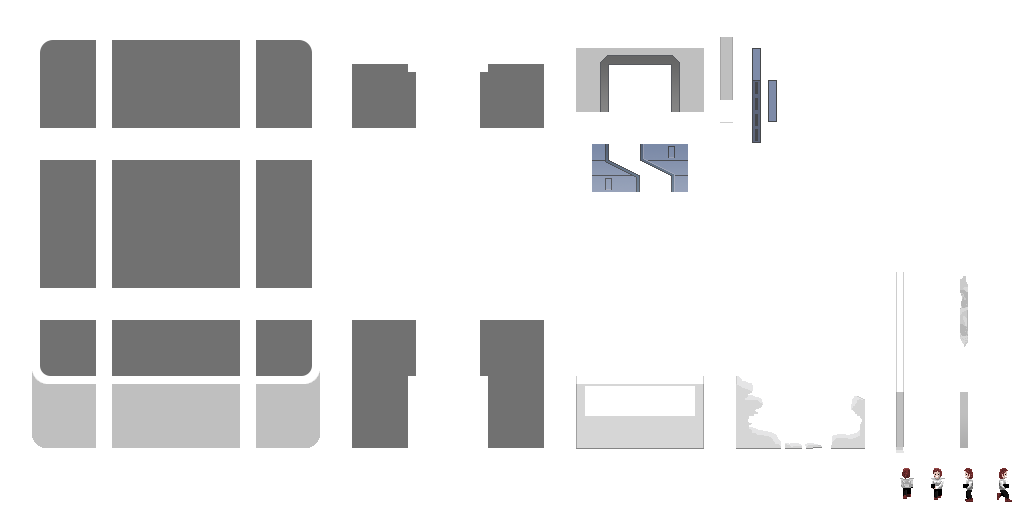
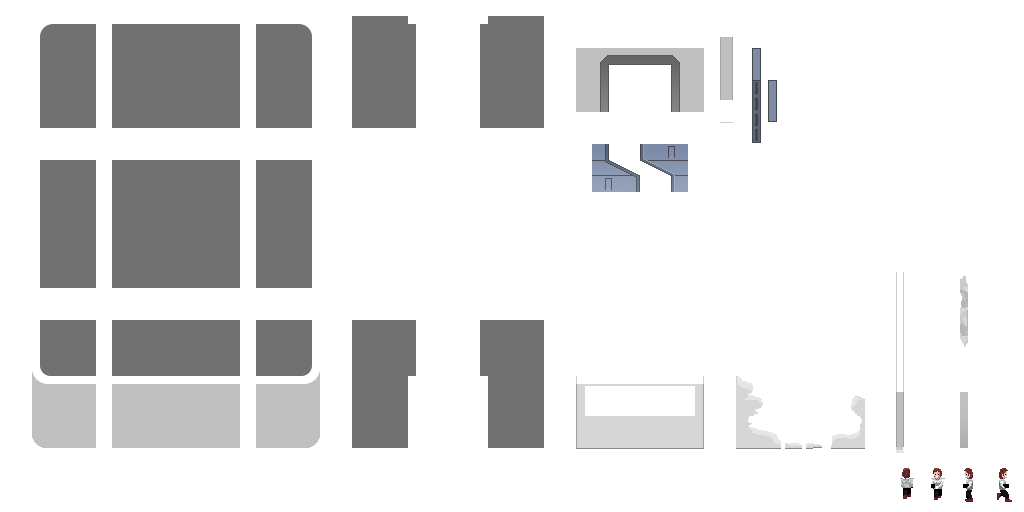
more wall cleanups (sheesh!)

Changed region(s): [[0.0312, 0.0312, 0.3125, 0.0938], [0.4688, 0.0312, 0.5312, 0.1562], [0.3438, 0.0312, 0.4062, 0.1562]]

diff --git a/Assets/Arena/Wall.cs b/Assets/Arena/Wall.cs
@@ -35,8 +35,6 @@ public class Wall: MonoBehaviour
     [ContextMenu("Update Edges")]
     public void UpdateEdges()
     {
-        //FindSpriteRenderers();
-
         var walls = GameObject.FindObjectsOfType<Wall>();
 
         var x = Mathf.RoundToInt(transform.position.x);

diff --git a/Assets/Arena/DoorV.cs b/Assets/Arena/DoorV.cs
@@ -17,7 +17,7 @@ public class DoorV: MonoBehaviour
 
     public AudioClip OpenSound;
 
-	void Start () 
+	void Awake() 
     {
         topDoor = transform.Find("door_top");
         bottomDoor = transform.Find("door_bottom");

diff --git a/Assets/Arena/Door.cs b/Assets/Arena/Door.cs
@@ -15,7 +15,7 @@ public class Door: MonoBehaviour
 
     public AudioClip OpenSound;
 
-	void Start () 
+	void Awake() 
     {
         leftDoor = transform.Find("door_left");
         rightDoor = transform.Find("door_right");
